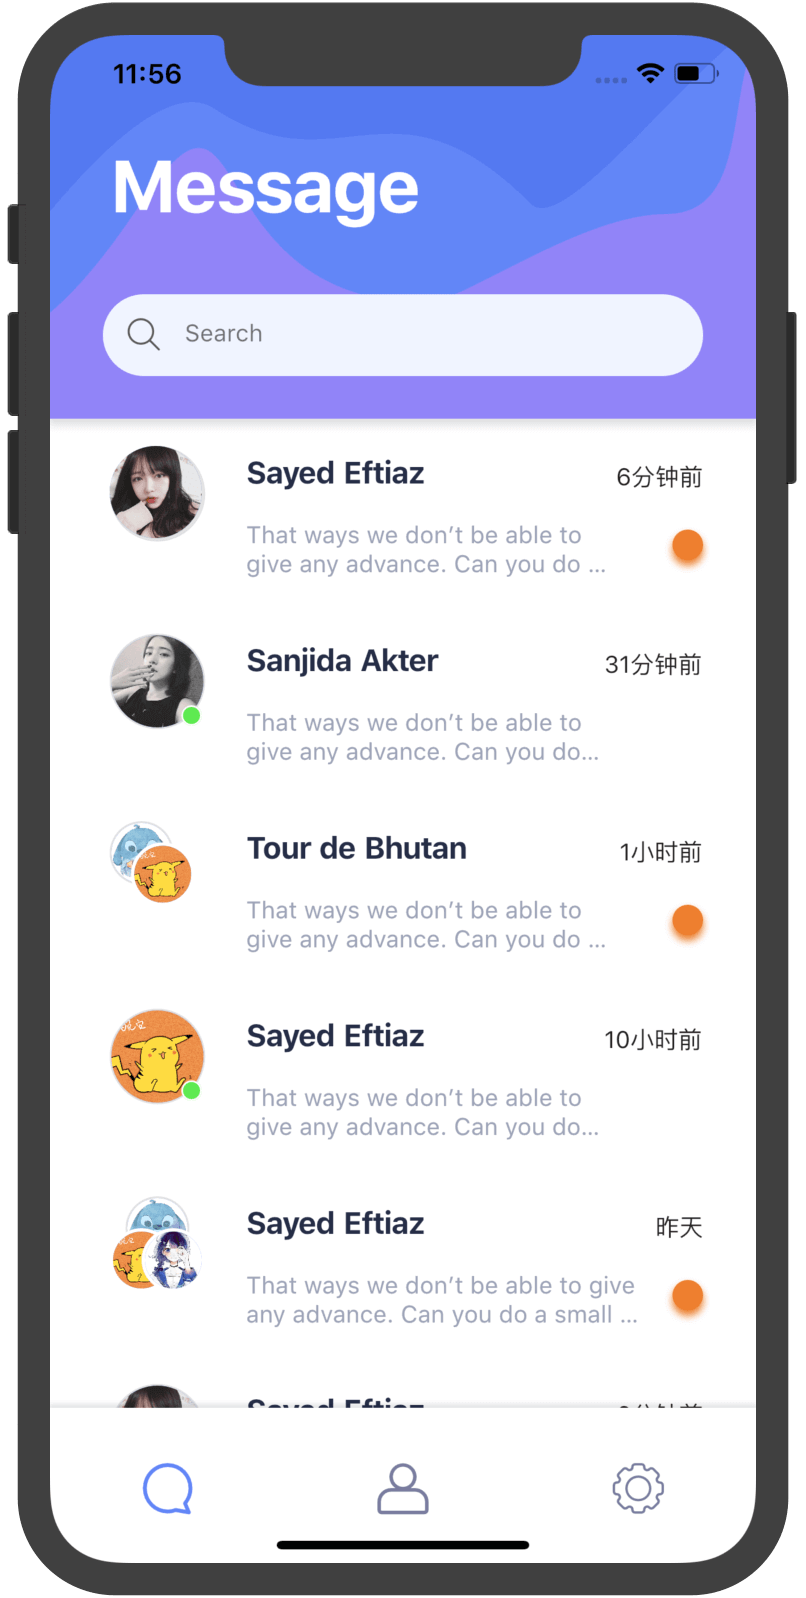
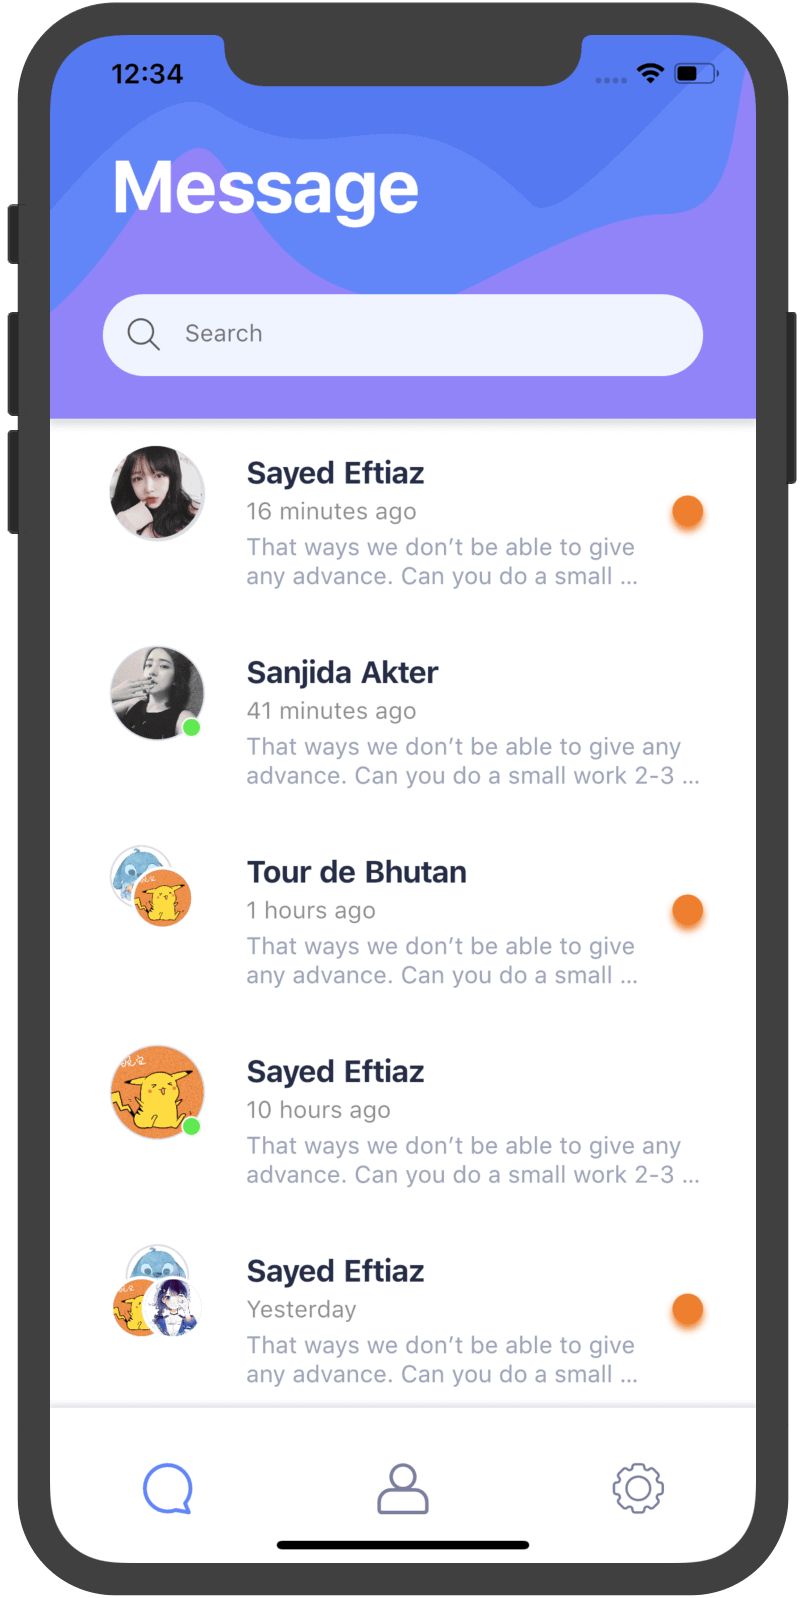
modify time layout

diff --git a/lib/widget/inbox_item_left.dart b/lib/widget/inbox_item_left.dart
@@ -11,28 +11,38 @@ class InboxItemLeft extends StatelessWidget {
   @override
   Widget build(BuildContext context) {
     return Container(
-      margin: const EdgeInsets.only(left: 31, right: 31, bottom: 16,top: 16),
-      child: Row(
+      margin: const EdgeInsets.only(left: 31, right: 31, bottom: 16, top: 16),
+      child: Column(
+        mainAxisAlignment: MainAxisAlignment.start,
+        crossAxisAlignment: CrossAxisAlignment.start,
         children: <Widget>[
-          Flexible(
-            child: Container(
-              padding: const EdgeInsets.all(73 / 3.0),
-              margin: const EdgeInsets.only(right: 12),
-              constraints: BoxConstraints.tightFor(),
-              decoration: BoxDecoration(
-                  color: Color(0xFFF4F6FF),
-                  borderRadius: BorderRadius.only(
-                    topLeft: _radius,
-                    topRight: _radius,
-                    bottomRight: _radius,
-                  )),
-              child: Text(
-                message,
-                style: TextStyle(fontSize: 14),
-              ),
+          dateTime != null
+              ? Container(
+                  width: double.maxFinite,
+                  alignment: Alignment.center,
+                  padding: const EdgeInsets.all(8.0),
+                  child: Text(
+                    TimelineUtil.formatByDateTime(dateTime ?? DateTime.now(),locale: 'en'),
+                    style: TextStyle(color: Colors.black45),
+                  ),
+                )
+              : Container(),
+          Container(
+            padding: const EdgeInsets.all(73 / 3.0),
+            margin: const EdgeInsets.only(right: 12),
+            constraints: BoxConstraints.tightFor(),
+            decoration: BoxDecoration(
+                color: Color(0xFFF4F6FF),
+                borderRadius: BorderRadius.only(
+                  topLeft: _radius,
+                  topRight: _radius,
+                  bottomRight: _radius,
+                )),
+            child: Text(
+              message,
+              style: TextStyle(fontSize: 14),
             ),
           ),
-          Text(TimelineUtil.formatByDateTime(dateTime ?? DateTime.now()))
         ],
       ),
     );

diff --git a/lib/widget/inbox_item_right.dart b/lib/widget/inbox_item_right.dart
@@ -11,26 +11,35 @@ class InboxItemRight extends StatelessWidget {
   @override
   Widget build(BuildContext context) {
     return Container(
-      margin: const EdgeInsets.only(left: 31, right: 31, bottom: 16,top: 16),
-      child: Row(
+      margin: const EdgeInsets.only(left: 31, right: 31, bottom: 16, top: 16),
+      child: Column(
         mainAxisAlignment: MainAxisAlignment.end,
+        crossAxisAlignment: CrossAxisAlignment.end,
         children: <Widget>[
-          Text(TimelineUtil.formatByDateTime(dateTime ?? DateTime.now())),
-          Flexible(
-            child: Container(
-              padding: const EdgeInsets.all(73 / 3.0),
-              margin: const EdgeInsets.only(left: 12),
-              decoration: BoxDecoration(
-                  color: Color(0xFF5479F1),
-                  borderRadius: BorderRadius.only(
-                    topRight: _radius,
-                    topLeft: _radius,
-                    bottomLeft: _radius,
-                  )),
-              child: Text(
-                message,
-                style: TextStyle(fontSize: 14, color: Colors.white),
-              ),
+          dateTime != null
+              ? Container(
+                  width: double.maxFinite,
+                  alignment: Alignment.center,
+                  padding: const EdgeInsets.all(8.0),
+                  child: Text(
+                    TimelineUtil.formatByDateTime(dateTime ?? DateTime.now(), locale: 'en'),
+                    style: TextStyle(color: Colors.black45),
+                  ),
+                )
+              : Container(),
+          Container(
+            padding: const EdgeInsets.all(73 / 3.0),
+            margin: const EdgeInsets.only(left: 12),
+            decoration: BoxDecoration(
+                color: Color(0xFF5479F1),
+                borderRadius: BorderRadius.only(
+                  topRight: _radius,
+                  topLeft: _radius,
+                  bottomLeft: _radius,
+                )),
+            child: Text(
+              message,
+              style: TextStyle(fontSize: 14, color: Colors.white),
             ),
           )
         ],

diff --git a/lib/page/inbox_page.dart b/lib/page/inbox_page.dart
@@ -17,9 +17,18 @@ class _InboxPageState extends State<InboxPage> {
 
   @override
   void initState() {
-    // TODO: implement initState
     super.initState();
-    getMessages().then((value) => setState(() => messages = value));
+    getMessages().then((value) => setState(() {
+          value.sort((Message msg1, Message msg2) => msg2.sendTime.compareTo(msg1.sendTime));
+
+          for (var i = 1; i < value.length; i++) {
+            if (value[i].sendTime.difference(value[i - 1].sendTime).inMilliseconds.abs() < 5000) {
+              value[i - 1].isShowTime = false;
+            }
+          }
+
+          return messages = value;
+        }));
   }
 
   @override
@@ -46,16 +55,16 @@ class _InboxPageState extends State<InboxPage> {
                         ? Center(child: CircularProgressIndicator())
                         : ListView(
                             reverse: true,
-                            children: messages.reversed
+                            children: messages
                                 .map(
                                   (msg) => msg.isMine
                                       ? InboxItemRight(
                                           message: msg.message,
-                                          dateTime: msg.sendTime,
+                                          dateTime: msg.isShowTime ? msg.sendTime : null,
                                         )
                                       : InboxItemLeft(
                                           message: msg.message,
-                                          dateTime: msg.sendTime,
+                                          dateTime: msg.isShowTime ? msg.sendTime : null,
                                         ),
                                 )
                                 .toList(),

diff --git a/lib/widget/contact_widget.dart b/lib/widget/contact_widget.dart
@@ -42,7 +42,17 @@ class _ContactWidgetState extends State<ContactWidget> {
                           fontWeight: FontWeight.bold,
                         ),
                       ),
-                      SizedBox(height: 18),
+                      Padding(
+                        padding: const EdgeInsets.only(top: 4, bottom: 4),
+                        child: Text(
+                          TimelineUtil.formatByDateTime(
+                            widget.contact.lastTime,
+                            locale: 'en',
+                            dayFormat: DayFormat.Simple,
+                          ),
+                          style: TextStyle(color: Colors.black45),
+                        ),
+                      ),
                       Text(
                         widget.contact.message,
                         maxLines: 2,
@@ -61,11 +71,6 @@ class _ContactWidgetState extends State<ContactWidget> {
                 child: Column(
                   crossAxisAlignment: CrossAxisAlignment.end,
                   children: <Widget>[
-                    Text(TimelineUtil.formatByDateTime(
-                      widget.contact.lastTime,
-                      locale: 'zh',
-                      dayFormat: DayFormat.Simple,
-                    )),
                     widget.contact.havNewMsg
                         ? Container(
                             margin: const EdgeInsets.only(top: 21),

diff --git a/lib/data/model/message.dart b/lib/data/model/message.dart
@@ -1,11 +1,13 @@
 class Message {
   String message;
   bool isMine;
+  bool isShowTime;
   DateTime sendTime;
 
   Message({
     this.message,
     this.isMine,
     this.sendTime,
+    this.isShowTime = true,
   });
 }
